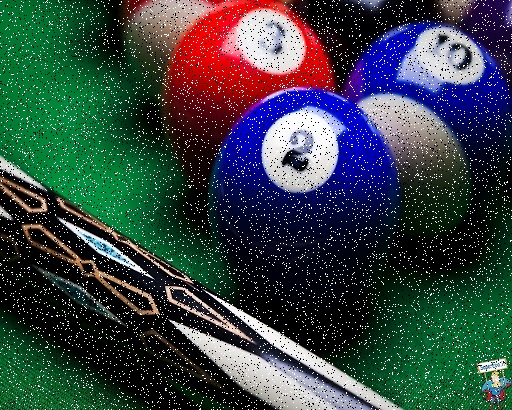
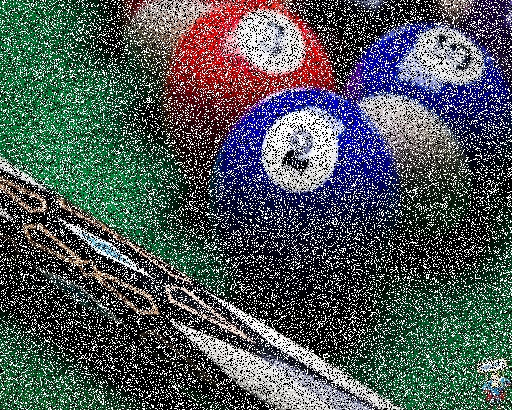
Rearrange lab1

diff --git a/lab1/1/quantize.py b/lab1/1/quantize.py
@@ -1,7 +1,7 @@
 import cv2
 import numpy as np
 
-img = cv2.imread('labka.jpg')
+img = cv2.imread('../labka.jpg')
 
 img_gray = cv2.cvtColor(img, cv2.COLOR_BGR2GRAY)
 cv2.imwrite('grayscale_labka.jpg', img_gray)

diff --git a/lab1/2/convert_to_different_colors.py b/lab1/2/convert_to_different_colors.py
@@ -1,6 +1,6 @@
 import cv2
 
-img = cv2.imread('labka.jpg')
+img = cv2.imread('../labka.jpg')
 
 yuv = cv2.cvtColor(img, cv2.COLOR_BGR2YUV)
 hls = cv2.cvtColor(img, cv2.COLOR_BGR2HLS)

diff --git a/lab1/salt_n_pepper.py b/lab1/salt_n_pepper.py
@@ -6,7 +6,7 @@ import numpy as np
 img = cv2.imread('labka.jpg')
 
 result = np.zeros(img.shape, np.uint8)
-prob = 0.05
+prob = 0.2
 edge = 1 - prob
 
 for i in range(img.shape[0]):
